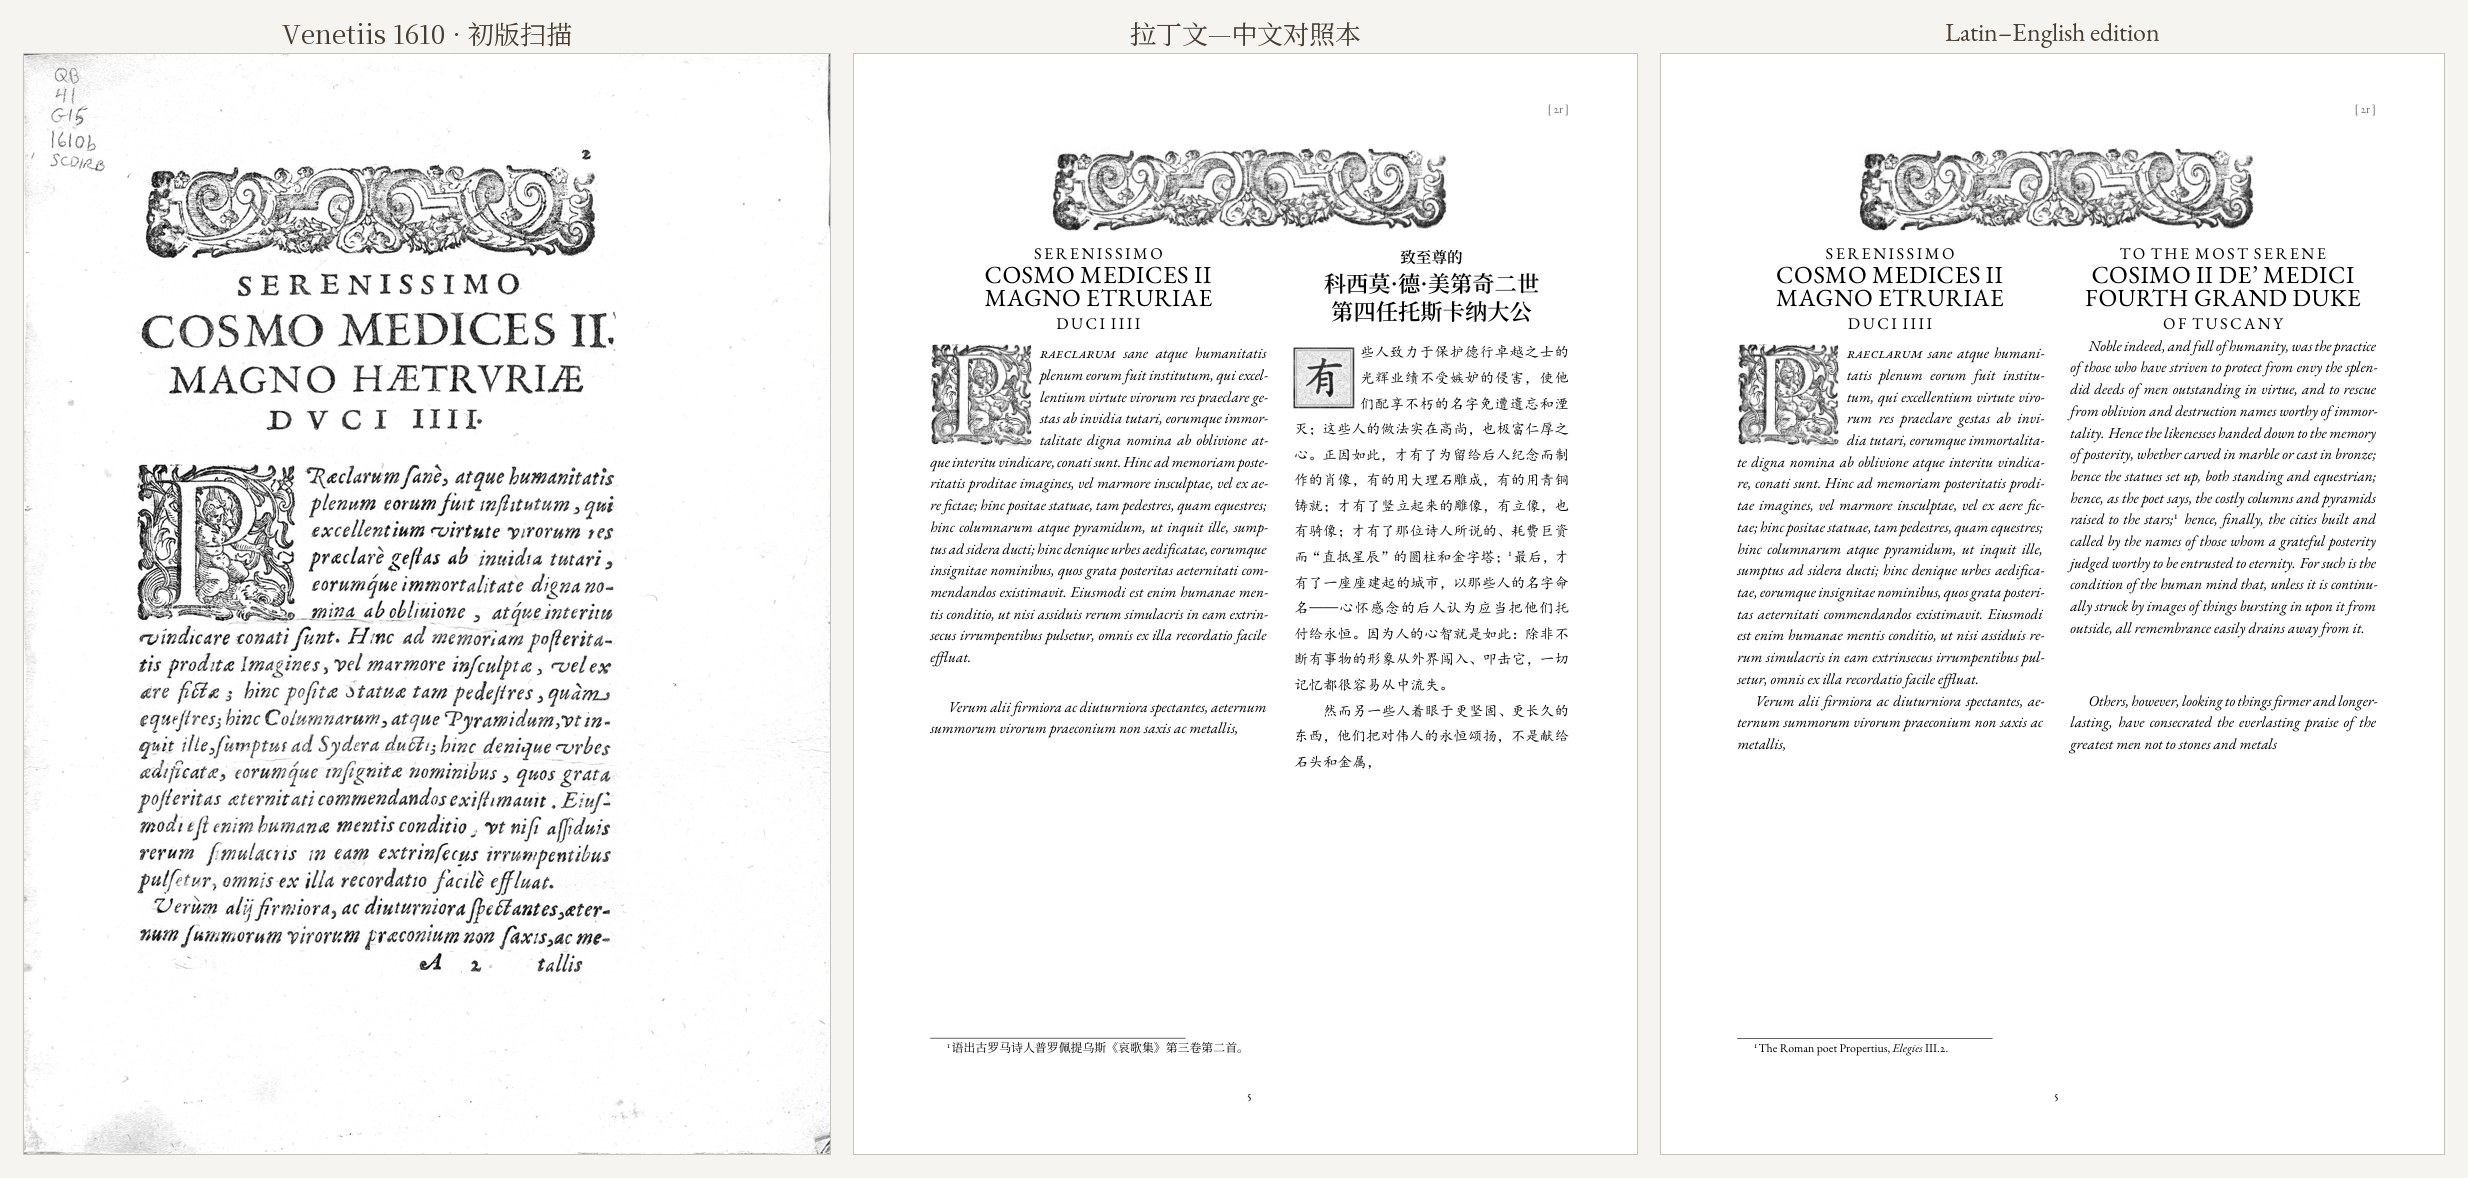
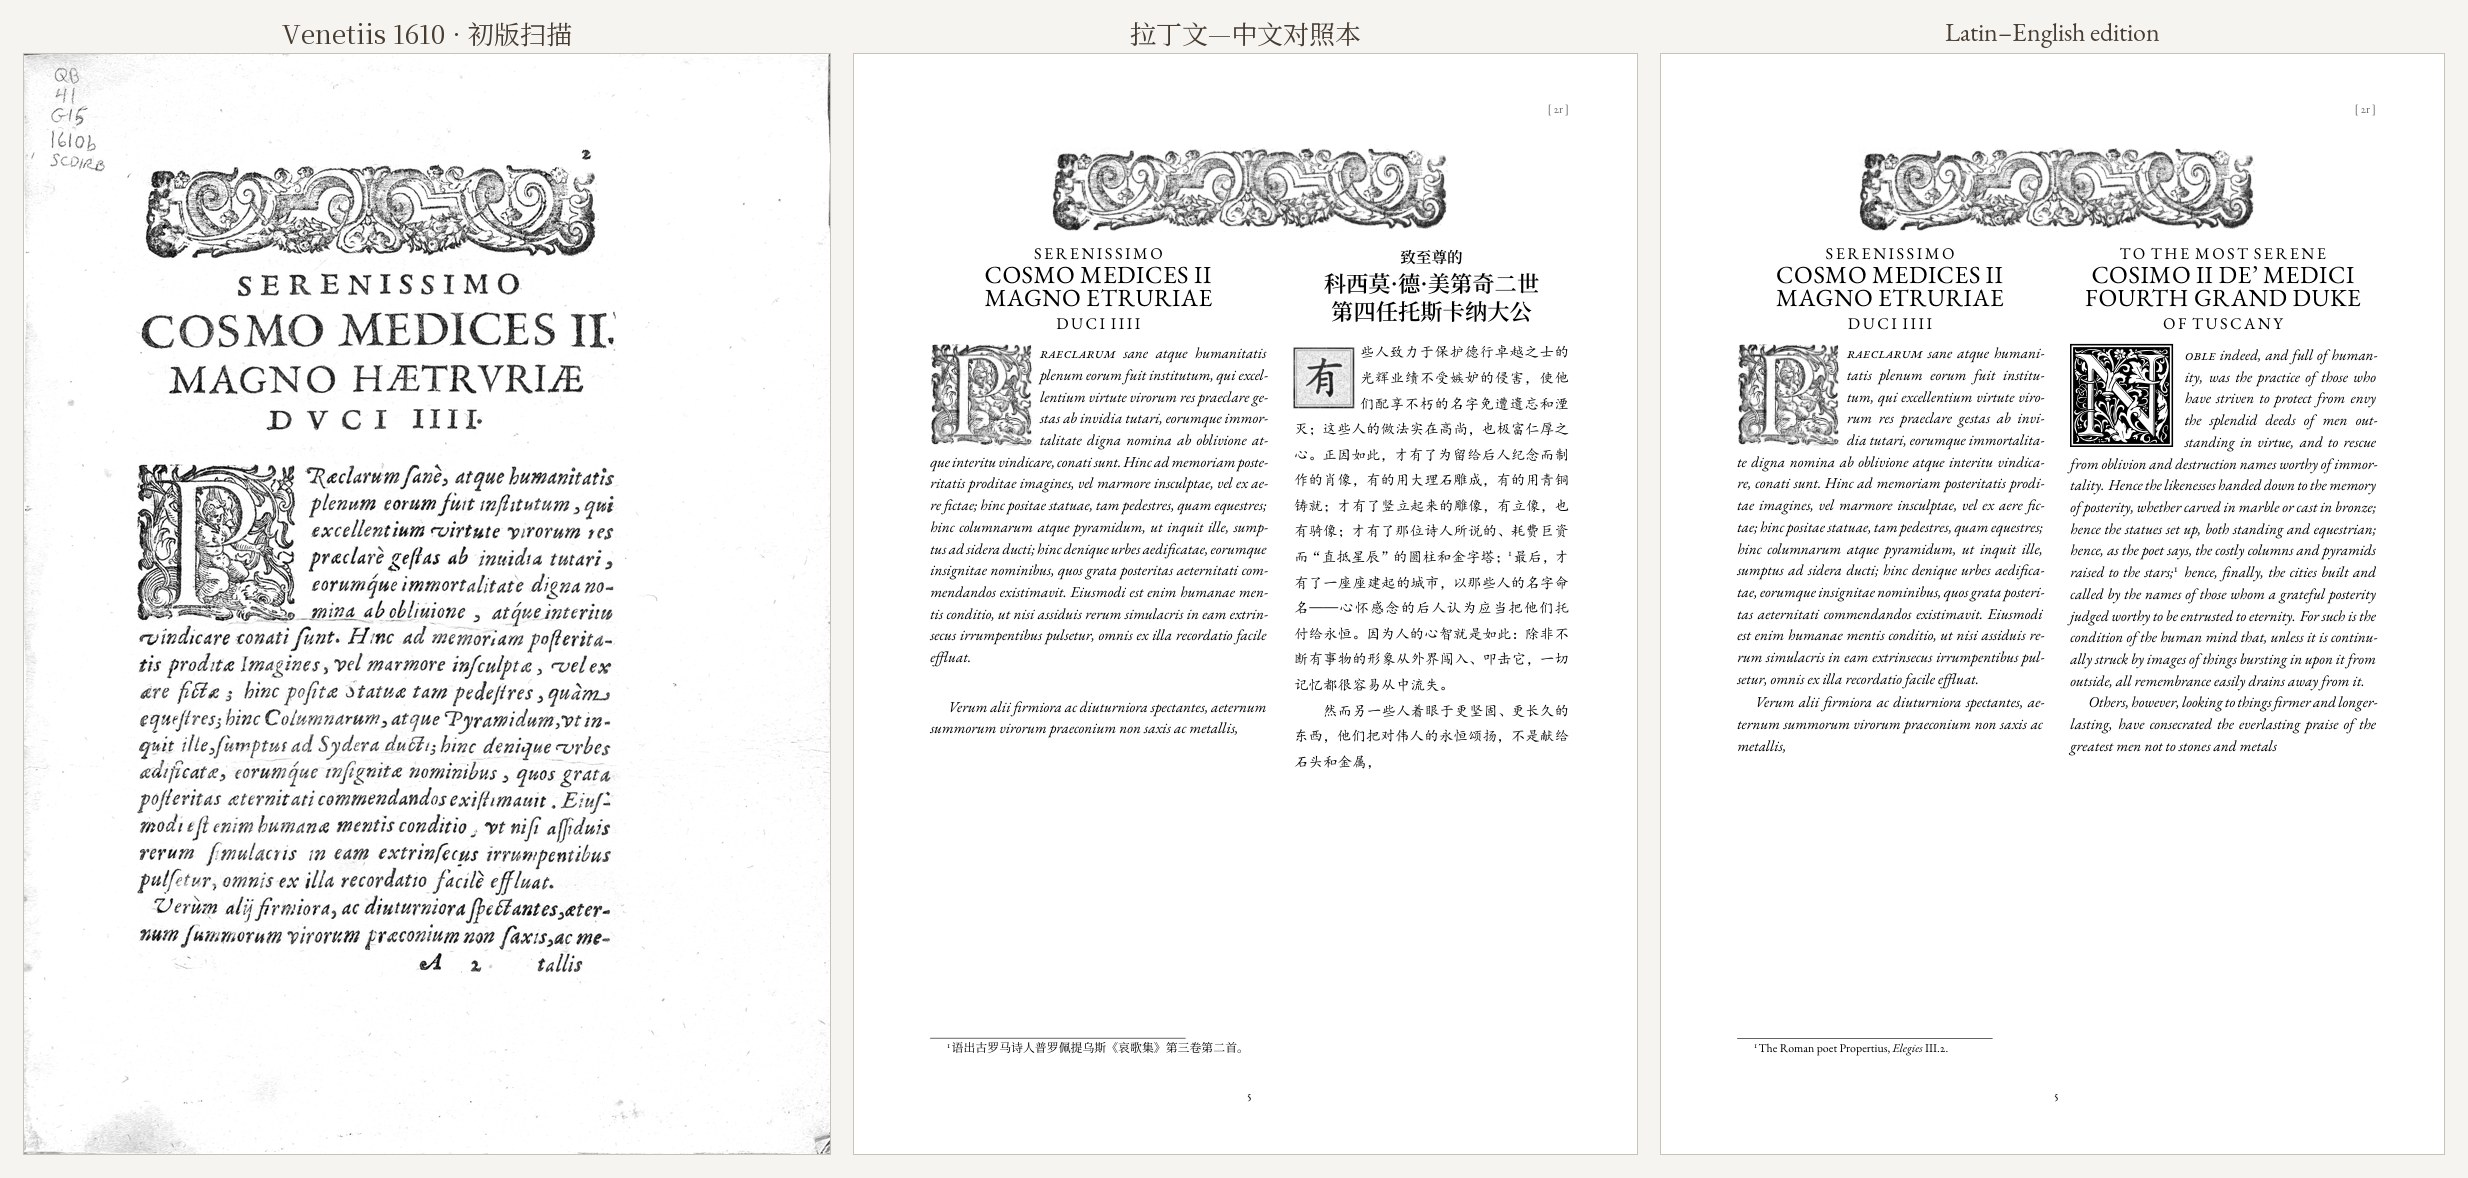
English edition: decorated initials (Goudy Initialen) for the dedication and f. 5r, plain drop A on f. 6r; repository renamed to sidereus-nuncius
Claude-Session: https://claude.ai/code/session_01XkdKkMNvSiZcYKmnodK2pk

Changed region(s): [[0.6864, 0.275, 0.9672, 0.6418]]

diff --git a/front/title_en.tex b/front/title_en.tex
@@ -20,6 +20,6 @@ Each page of this edition corresponds to one page of the 1610 edition; the runni
 
 The type follows the roles of the original: its roman as roman, its italic as italic, and words it sets in capitals as spaced capitals. The English translation is new and made directly from the Latin. The diagrams, star maps and drawings of Jupiter's companions are redrawn as vector graphics from measurements of the original; the engravings of the Moon, the woodcut initials, ornaments and printer's device are taken from the scan, cleaned and repaired.
 
-The translation was made with AI assistance and has not yet been reviewed by a Latinist; corrections are welcome. Translation, notes and typesetting are released under CC BY 4.0; the Latin text and the scans of the 1610 edition are in the public domain. Sources: github.com/metachow/sidereus-nuncius-zh
+The translation was made with AI assistance and has not yet been reviewed by a Latinist; corrections are welcome. Translation, notes and typesetting are released under CC BY 4.0; the Latin text and the scans of the 1610 edition are in the public domain. Sources: github.com/metachow/sidereus-nuncius
 \end{minipage}
 \cleardoublepage

diff --git a/preamble.tex b/preamble.tex
@@ -113,6 +113,14 @@
 % \zhwoodinitial[lines]{name} uses figures/orn_zh_name.png
 \NewDocumentCommand{\zhwoodinitial}{O{3} m}{%
   \noindent\lettrine[image=true, lines=#1, findent=0.35em, nindent=0pt, loversize=0.05]{figures/orn_zh_#2}{}}
+% decorated initial for a Latin-script translation: Goudy Initialen (TeX Live
+% `initials' collection), a roman capital on a foliage ground in a square, the
+% same build as the 1610 woodcut initials. \trwoodinitial{N}{oble}[lines]
+\input{GoudyIn.fd}
+\newif\iftrinit
+\renewcommand{\LettrineFontHook}{\iftrinit\usefont{U}{GoudyIn}{xl}{n}\fi}
+\NewDocumentCommand{\trwoodinitial}{m m O{5}}{%
+  \global\trinittrue\lettrine[lines=#3, loversize=0.1, findent=0.4em]{#1}{#2}\global\trinitfalse}
 % headpiece band across both columns
 \newcommand{\headpiece}[1]{\spanfig{\includegraphics[width=0.62\textwidth]{figures/orn_head_#1}}}
 

diff --git a/front/title.tex b/front/title.tex
@@ -22,6 +22,6 @@
 
 中文译文直接译自拉丁文。插图中，望远镜光路图、几何示意图、星图和木星卫星图按初版逐点测量，重绘为矢量图；月面铜版画、木刻首字母、花饰与印刷商标取自初版扫描，经去黄和折痕修补。
 
-译文由 AI 协作完成，尚未经拉丁文专家审校，错误之处敬请指正。本版译文、注释与排版以 CC BY 4.0 许可发布；拉丁原文与初版扫描属公有领域。源文件：github.com/metachow/sidereus-nuncius-zh
+译文由 AI 协作完成，尚未经拉丁文专家审校，错误之处敬请指正。本版译文、注释与排版以 CC BY 4.0 许可发布；拉丁原文与初版扫描属公有领域。源文件：github.com/metachow/sidereus-nuncius
 \end{minipage}
 \cleardoublepage
